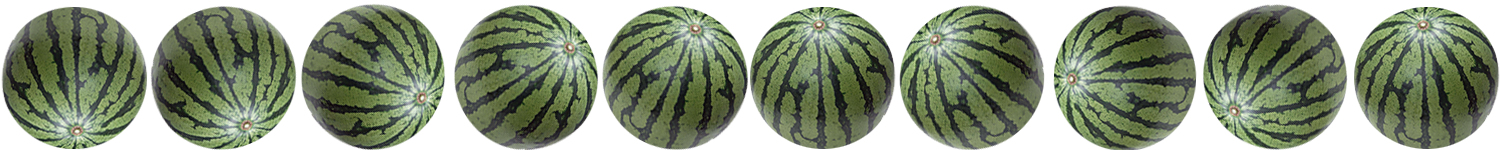
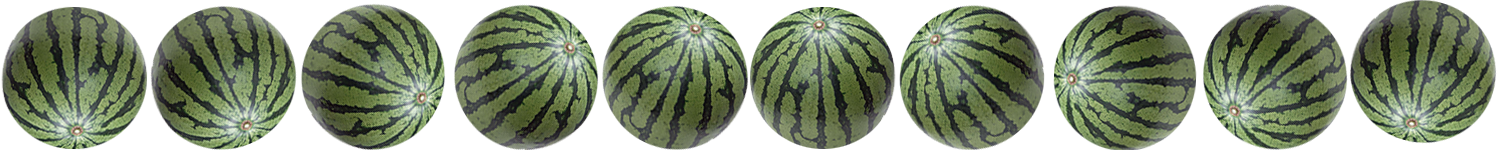
Presque rien sur la pasteque

Changed region(s): [[0.8893, 0.0, 1.0, 1.0]]

diff --git a/Components.js b/Components.js
@@ -172,34 +172,35 @@
 	});
 	
 	Q.animations('pastequeSP', {
-        run_left: { frames: [1,2,3,4,5,6,7,8,9], next: 'stand_left', rate: 1/5},
-        run_right: { frames: [1,2,3,4,5,6,7,8,9], next: 'stand_right', rate: 1/5},
-        stand_left: { frames: [0]},
-        stand_right: { frames: [0]},
+        run_left: {frames: [0,1,2,3,4,5,6,7,8,9], next: 'stand_left', rate: 1/5},
+        run_right: {frames: [0,1,2,3,4,5,6,7,8,9], next: 'stand_right', rate: 1/5},
+        stand_left: {frames: [0]},
+        stand_right: {frames: [0]},
     });
 	
 	// Piege de la boule qui roule et qui n'amasse pas mousse
 	Q.Sprite.extend("pastequeSP", {
     	init: function(p) {
-       		this._super(p, { rangeX : 100,vx : 100 , gravity : 0, defaultDirection: "left", sheet: "pasteque", sprite: "pastequeSP",});
+       		this._super(p, { rangeX : 100,vx : 100 , gravity : 1, defaultDirection: "left", sheet: "pasteque", sprite: "pastequeSP",});
             this.add("2d, madBounce, animation");
             this.p.initialY = this.p.y;
 			this.p.initialX = this.p.x;
+			this.play("run_left");
         },
         
-		  step: function(dt) {                
-          if(this.p.x - this.p.initialX >= this.p.rangeX && this.p.vx > 0) {
+		  step: function(dt) {  	  
+			/*if(this.p.x - this.p.initialX >= this.p.rangeX && this.p.vx > 0) {
         	    this.p.vx = -this.p.vx;
 				this.play("run_right", 1);
             } 
             else if(-this.p.x + this.p.initialX >= this.p.rangeX && this.p.vx < 0) {
                  	this.p.vx = -this.p.vx;
 					this.play("run_right");
-        	} 
+        	}*/ 
 			
 				this.on("bump.top, bump.right, bump.left",function(collision) {
             	if((collision.obj.isA("Orange")) || (collision.obj.isA("Banane")) || (collision.obj.isA("Ananas")) || (collision.obj.isA("Fraise"))) {  
-					collision.obj.p.vx = 150;
+					collision.obj.p.vx = 200;
 					this.play("run_right", 1);
 			}
             });

diff --git a/personnage.js b/personnage.js
@@ -314,7 +314,7 @@
                	this.p.timeInvincible = Math.max(this.p.timeInvincible - dt, 0);
             }
 
-			if(this.p.y>1645){
+			if(this.p.y>1800){
 				this.destroy();
 				Q.clearStages();
 				Q.stageScene("endGame",1, {label: "Game Over"})
